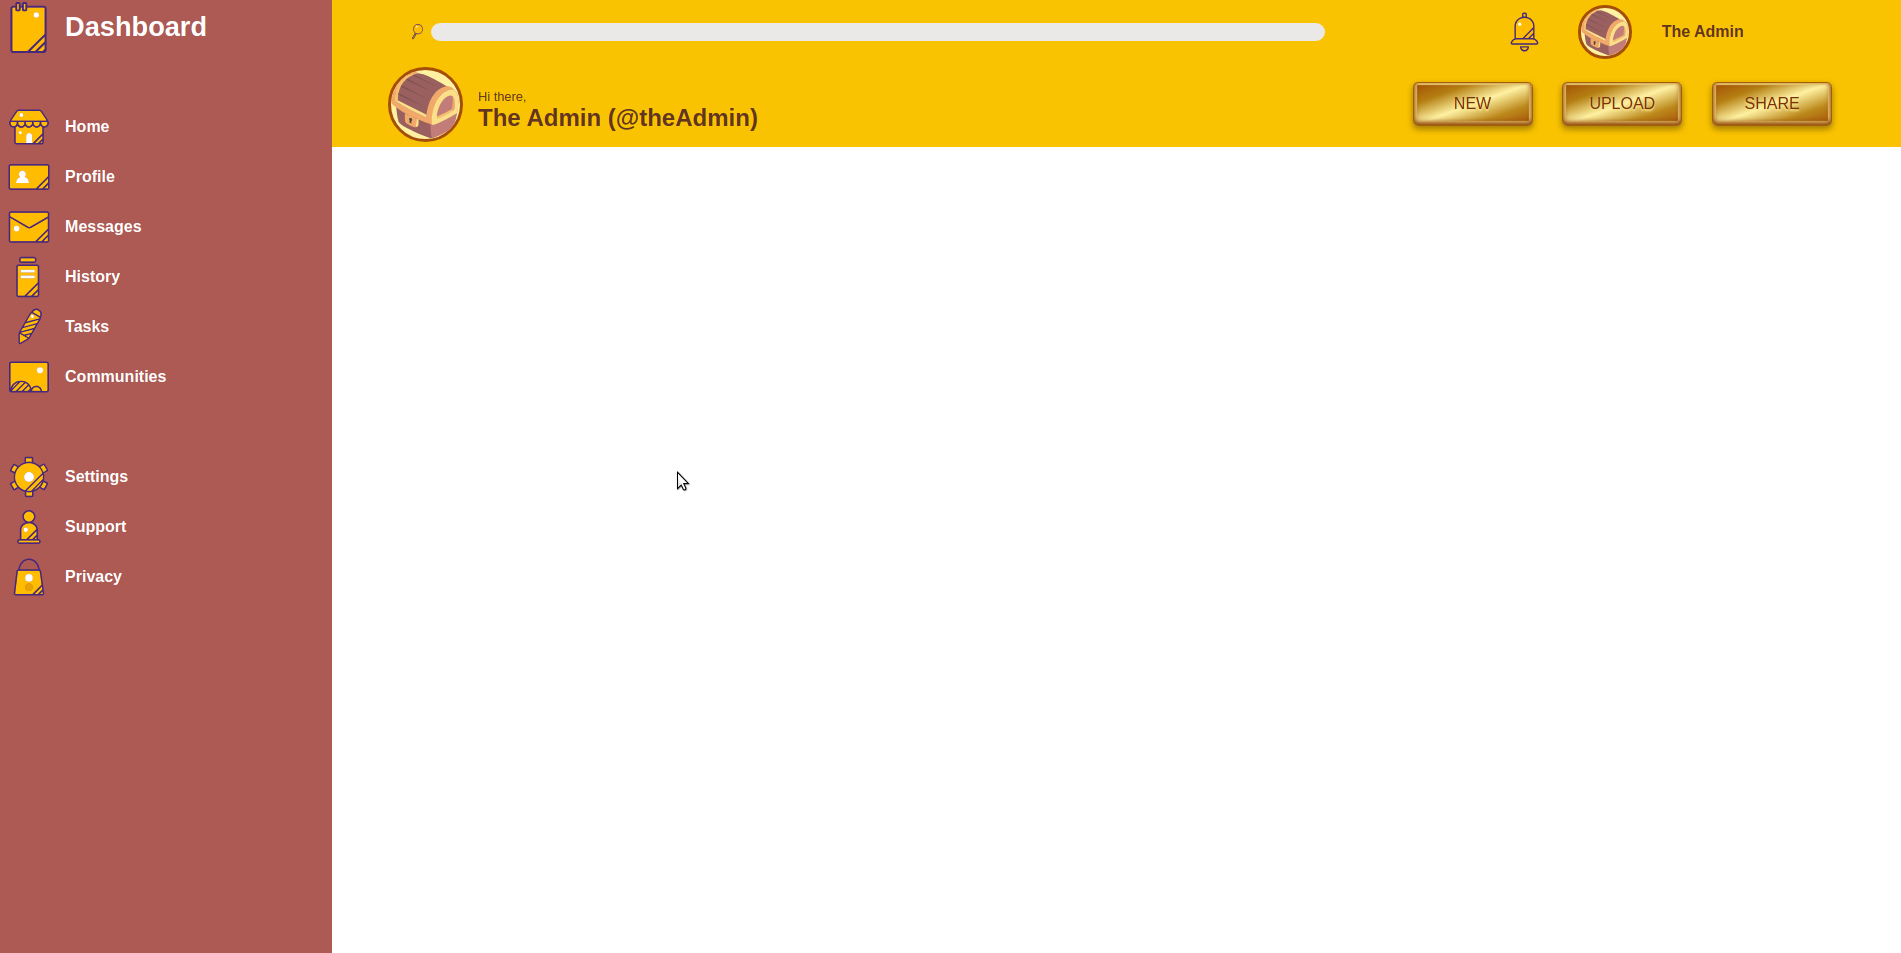
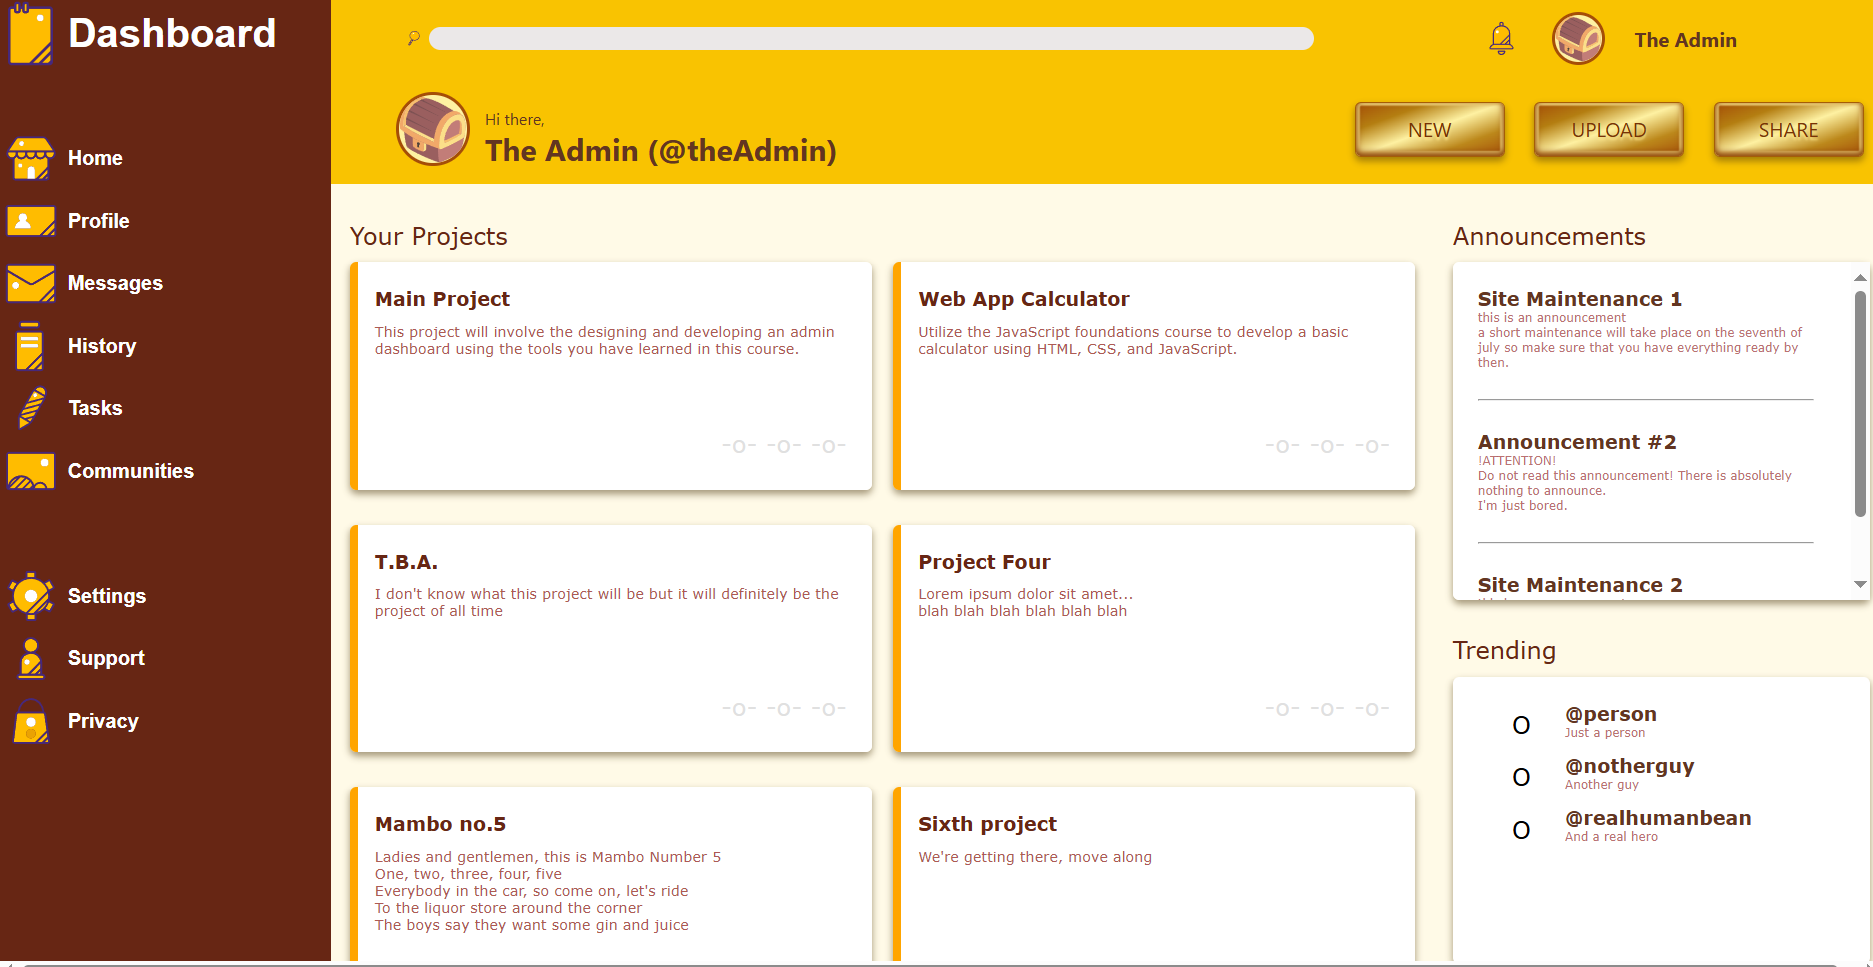
Finished base design and style
Possible future changes: more responsive content containers and color palette changes

diff --git a/index.html b/index.html
@@ -138,8 +138,105 @@
     <!-- CONTENT SECTION -->
 
     <div class="content-container">
-
+      <div class="projects-container">
+        <span class="your-projects-title">Your Projects</span>
+        <div class="project-card">
+          <div class="project-title">Main Project</div>
+          <div class="project-description">
+            This project will involve the designing and developing an admin
+            dashboard using the tools you have learned in this course.
+          </div>
+          <div class="card-buttons">-o- -o- -o-</div>
+        </div>
+        <div class="project-card">
+          <div class="project-title">Web App Calculator</div>
+          <div class="project-description">
+            Utilize the JavaScript foundations course to develop a basic
+            calculator using HTML, CSS, and JavaScript.
+          </div>
+          <div class="card-buttons">-o- -o- -o-</div>
+        </div>
+        <div class="project-card">
+          <div class="project-title">T.B.A.</div>
+          <div class="project-description">
+            I don't know what this project will be but it will definitely be the
+            project of all time
+          </div>
+          <div class="card-buttons">-o- -o- -o-</div>
+        </div>
+        <div class="project-card">
+          <div class="project-title">Project Four</div>
+          <div class="project-description">
+            Lorem ipsum dolor sit amet... <br />
+            blah blah blah blah blah blah <br />
+          </div>
+          <div class="card-buttons">-o- -o- -o-</div>
+        </div>
+        <div class="project-card">
+          <div class="project-title">Mambo no.5</div>
+          <div class="project-description">
+            Ladies and gentlemen, this is Mambo Number 5 <br />
+            One, two, three, four, five <br />
+            Everybody in the car, so come on, let's ride <br />
+            To the liquor store around the corner <br />
+            The boys say they want some gin and juice
+          </div>
+          <div class="card-buttons">-o- -o- -o-</div>
+        </div>
+        <div class="project-card">
+          <div class="project-title">Sixth project</div>
+          <div class="project-description">We're getting there, move along</div>
+          <div class="card-buttons">-o- -o- -o-</div>
+        </div>
+      </div>
+      <div class="announcements-trending-container">
+        <span class="announcements-title">Announcements</span>
+        <div class="announcements-card">
+          <div class="announcements-title">Site Maintenance 1</div>
+          <div class="announcements-description">
+            this is an announcement <br />
+            a short maintenance will take place on the seventh of july so make
+            sure that you have everything ready by then.
+          </div>
+          <br />
+          <hr />
+          <br />
+          <div class="announcements-title">Announcement #2</div>
+          <div class="announcements-description">
+            !ATTENTION! <br />
+            Do not read this announcement! There is absolutely nothing to
+            announce. <br />
+            I'm just bored.
+          </div>
+          <br />
+          <hr />
+          <br />
+          <div class="announcements-title">Site Maintenance 2</div>
+          <div class="announcements-description">
+            this is an announcement <br />
+            Another short maintenance will take place on the 25th of December so
+            make sure that you have everything ready by then.
+          </div>
+        </div>
+        <span class="trending-title">Trending</span>
+        <div class="trendings-card">
+          <div class="trending-person-container">
+            <div class="trending-profile">O</div>
+            <div class="trending-handle">@person</div>
+            <div class="trending-about">Just a person</div>
+          </div>
+          <div class="trending-person-container">
+            <div class="trending-profile">O</div>
+            <div class="trending-handle">@notherguy</div>
+            <div class="trending-about">Another guy</div>
+          </div>
+          <div class="trending-person-container">
+            <div class="trending-profile">O</div>
+            <div class="trending-handle">@realhumanbean</div>
+            <div class="trending-about">And a real hero</div>
+          </div>
+        </div>
+      </div>
     </div>
-
   </body>
 </html>

diff --git a/style.css b/style.css
@@ -23,7 +23,7 @@ body {
 /* SIDEBAR STYLES */
 
 .sidebar-container {
-  background-color: var(--cheek-red);
+  background-color: var(--hot-fudge);
   padding-top: 5px;
   display: grid;
   grid-template-columns: 1fr 4fr;
@@ -41,8 +41,8 @@ body {
 
 .sidebar-container .sidebar-label {
   padding: 5px;
-  font-family: Impact, Haettenschweiler, "Arial Narrow Bold", sans-serif;
-  font-weight: bolder;
+  font-family: sans-serif;
+  font-weight: bold;
   color: white;
   grid-column: 2/3;
   align-self: center;
@@ -60,7 +60,7 @@ img.sidebar-icon.dashboard-icon {
 }
 
 div.sidebar-label.dashboard-label {
-  font-size: 1.7em;
+  font-size: 2em;
 }
 
 /* HEADER STYLES */
@@ -111,7 +111,7 @@ div.header-top-right-container {
 }
 
 img.notification-icon {
-  width: 8%;
+  width: 7%;
   align-self: center;
 }
 
@@ -166,9 +166,143 @@ div.header-bottom-right-container {
 /* CONTENT STYLES */
 
 .content-container {
-  background-color: white;
+  font-family: Verdana, Geneva, Tahoma, sans-serif;
+  font-size: 1.2em;
+  padding-top: 30px;
+  padding-right: 20px;
+  display: flex;
+  background-color: #fffae7;
   grid-row: 2/3;
   grid-column: 2/3;
+}
+
+div.projects-container {
+  display: grid;
+  padding-right: 15px;
+  grid-template-columns: 1fr 1fr;
+  grid-template-rows: 20px;
+  grid-auto-rows: 1fr;
+  grid-row: 1/3;
+  grid-column: 1/2;
+  gap: 2%;
+  flex: 2.5;
+  padding-left: 15px;
+}
+
+div.announcements-trending-container {
+  display: grid;
+  grid-template-columns: 1fr;
+  grid-template-rows: 20px 1fr 20px 1fr;
+  grid-row: 1/2;
+  grid-column: 1/2;
+  gap: 2%;
+  flex: 1;
+  padding-left: 15px;
+}
+
+div.announcements-trending-container {
+  flex: 1;
+}
+
+span.your-projects-title,
+span.announcements-title {
+  color: var(--hot-fudge);
+  font-size: 1em;
+  grid-column: 1/3;
+  grid-row: 1/2;
+}
+
+span.trending-title {
+  color: var(--hot-fudge);
+  font-size: 1em;
+  grid-column: 1/2;
+  grid-row: 3/4;
+}
+
+.project-title {
+  color: var(--hot-fudge);
+  font-size: 0.8em;
+  font-weight: bold;
+}
+
+.project-description {
+  font-size: 0.6em;
+  color: var(--cheek-red);
+}
+
+div.project-card,
+div.announcements-card,
+div.trendings-card {
+  background-color: white;
+  border-radius: 5px;
+  box-shadow: 0 3px 6px rgba(0, 0, 0, 0.16), 0 3px 6px rgba(110, 80, 20, 0.4);
+  padding: 10px;
+  margin-bottom: 15px;
+}
+
+div.project-card {
+  padding: 20px;
+  background: linear-gradient(to right, orange 1.5%, white 1.5%);
+  display: grid;
+  grid-template-columns: 1fr;
+  grid-template-rows: 1fr 3fr 1fr;
+}
+
+div.card-buttons {
+  justify-self: end;
+  color: rgba(186, 186, 186, 0.454);
+}
+
+div.announcements-card {
+  max-height: 250px;
+  overflow: auto;
+  padding: 20px;
+  padding-right: 30px;
+}
+
+div.announcements-title {
+  font-size: 0.8em;
+  font-weight: bold;
+  color: var(--lava);
+}
+
+div.announcements-description {
+  font-size: 0.5em;
+  color: #9e3a3ab6;
+}
+
+div.trendings-card {
+  overflow: auto;
+  max-height: 200px;
+  padding: 15px;
+  padding-right: 30px;
+  grid-column: 1/2;
+  grid-row: 4/5;
+}
+
+div.trending-person-container {
+  margin: 5px;
+  display: grid;
+  grid-template-columns: 1fr 3fr;
+  grid-template-rows: 1fr 1fr;
+}
+
+div.trending-profile {
+  justify-self: center;
+  align-self: center;
+  grid-column: 1/2;
+  grid-row: 1/3;
+}
+
+div.trending-handle {
+  font-size: 0.8em;
+  font-weight: bold;
+  color: var(--lava);
+}
+
+div.trending-about {
+  font-size: 0.5em;
+  color: #9e3a3ab6;
 }
 
 /* Button style from Uiverse.io by elijahgummer */
